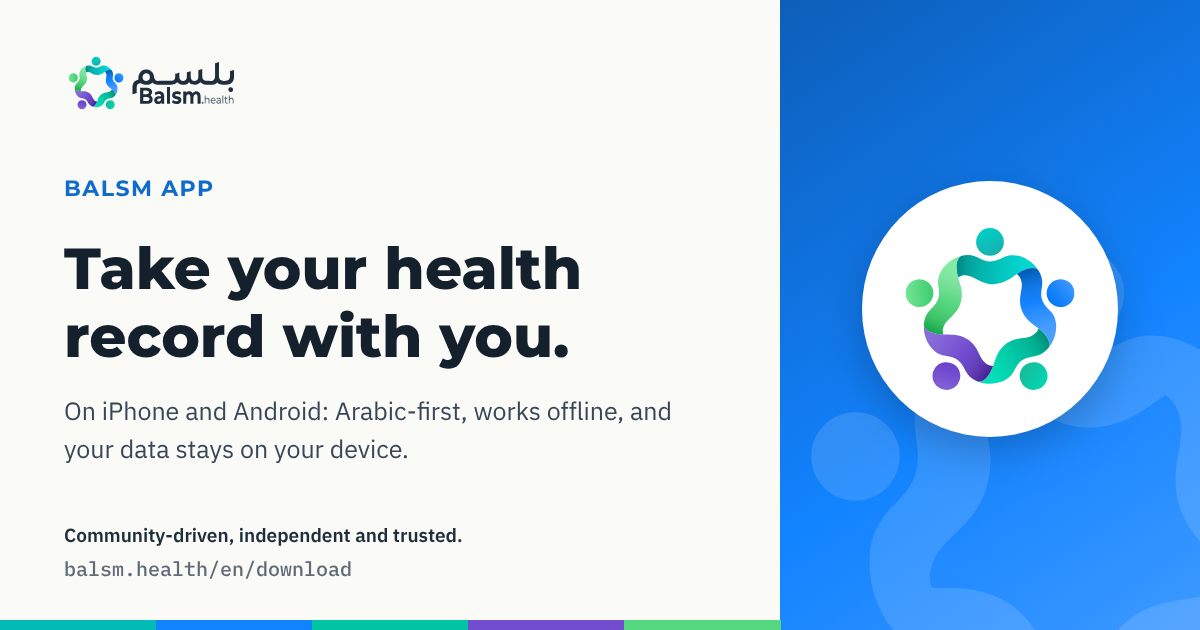
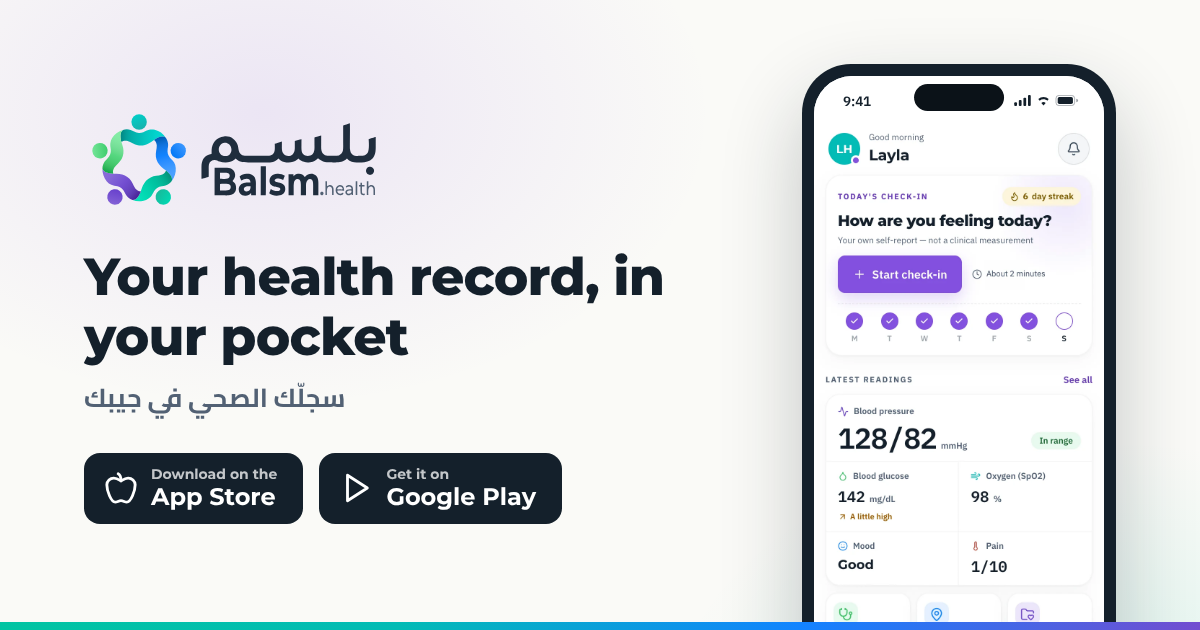
/download link preview: the app on a phone, with the store badges
Brings back the App Store card for /download as `"layout": "app"` in
preview-cards.json: the app's home screen (public/app/home-{ar,en}.webp)
in a phone frame, "سجلّك الصحي في جيبك" / "Your health record, in your
pocket" (new optional `headline`) with the other locale beneath, and the
App Store / Google Play badges. og:title and og:description keep the
route's title/desc. rev 4.

Claude-Session: https://claude.ai/code/session_01L44assg5bgYuBUEEhbEpY8

diff --git a/README.md b/README.md
@@ -55,6 +55,9 @@ Previews page. All of it is driven by
 the `path`, the panel colour `accent` and the eyebrow's darker `accentText`, an
 `ar` and `en` block of `eyebrow`, `title` (≤ 60 characters) and `desc`
 (≤ 155), and a `rev`; `site.tagline` is the line at the foot of every card.
+`"layout": "app"` (used by `/download`) swaps in the App Store card: the
+app's home screen in a phone frame with the store badges, headed by each
+locale's `headline` (falling back to `title`).
 The same title and description are the page's `og:title` / `og:description`.
 
 ```bash
